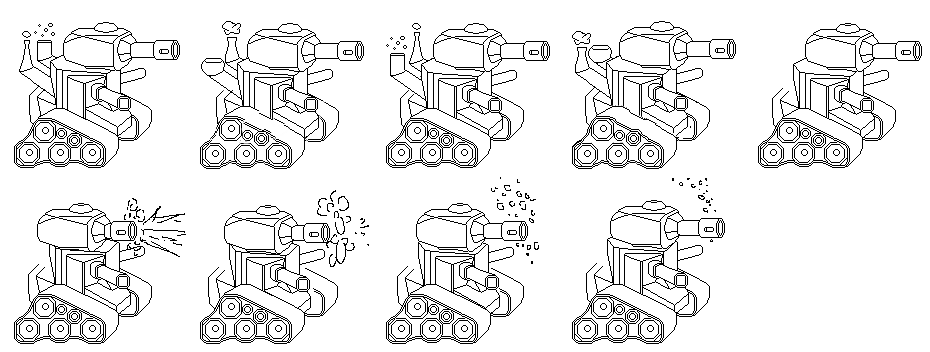
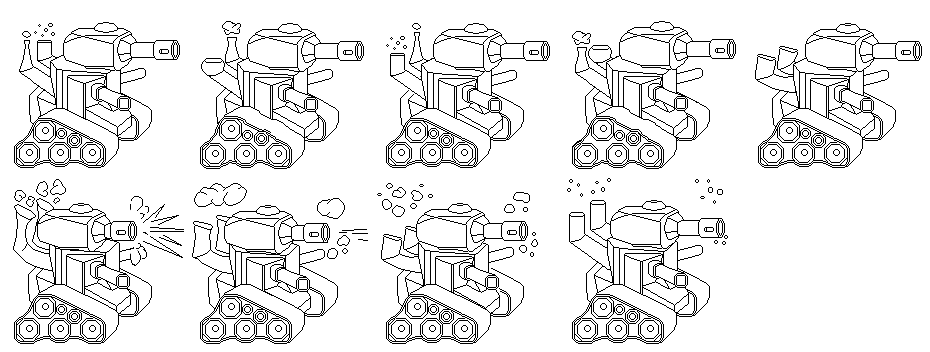
* Fight: ScrapTank animation improvements.

diff --git a/MobileClient/www/Assets/Render/SpriteAnimations/FightUnits/FlakTrooperFight.js b/MobileClient/www/Assets/Render/SpriteAnimations/FightUnits/FlakTrooperFight.js
@@ -73,7 +73,7 @@ SpriteAnimations.FightUnits.ScrapTank = {
 	frameWidth: 186,
 	frameHeight: 176,
 	framesPerRow: 5,
-	speed: 11,
+	speed: 14,
 	anchorX: Animator.AnchorY.Center,
 	anchorY: 150,
 	
@@ -101,7 +101,7 @@ SpriteAnimations.FightUnits.ScrapTank = {
 			name: 'Attack',
 			startIndex: 4,
 			frames: 5,
-			speed: 7,
+			speed: 9,
 
 			events: [
 				
@@ -116,11 +116,12 @@ SpriteAnimations.FightUnits.ScrapTank = {
 			],
 		},
 
+		/*
 		{
 			name: 'Taunt',
 			startIndex: 0,
 			frames: 4,
 		},
-
+		*/
 	]
 };
